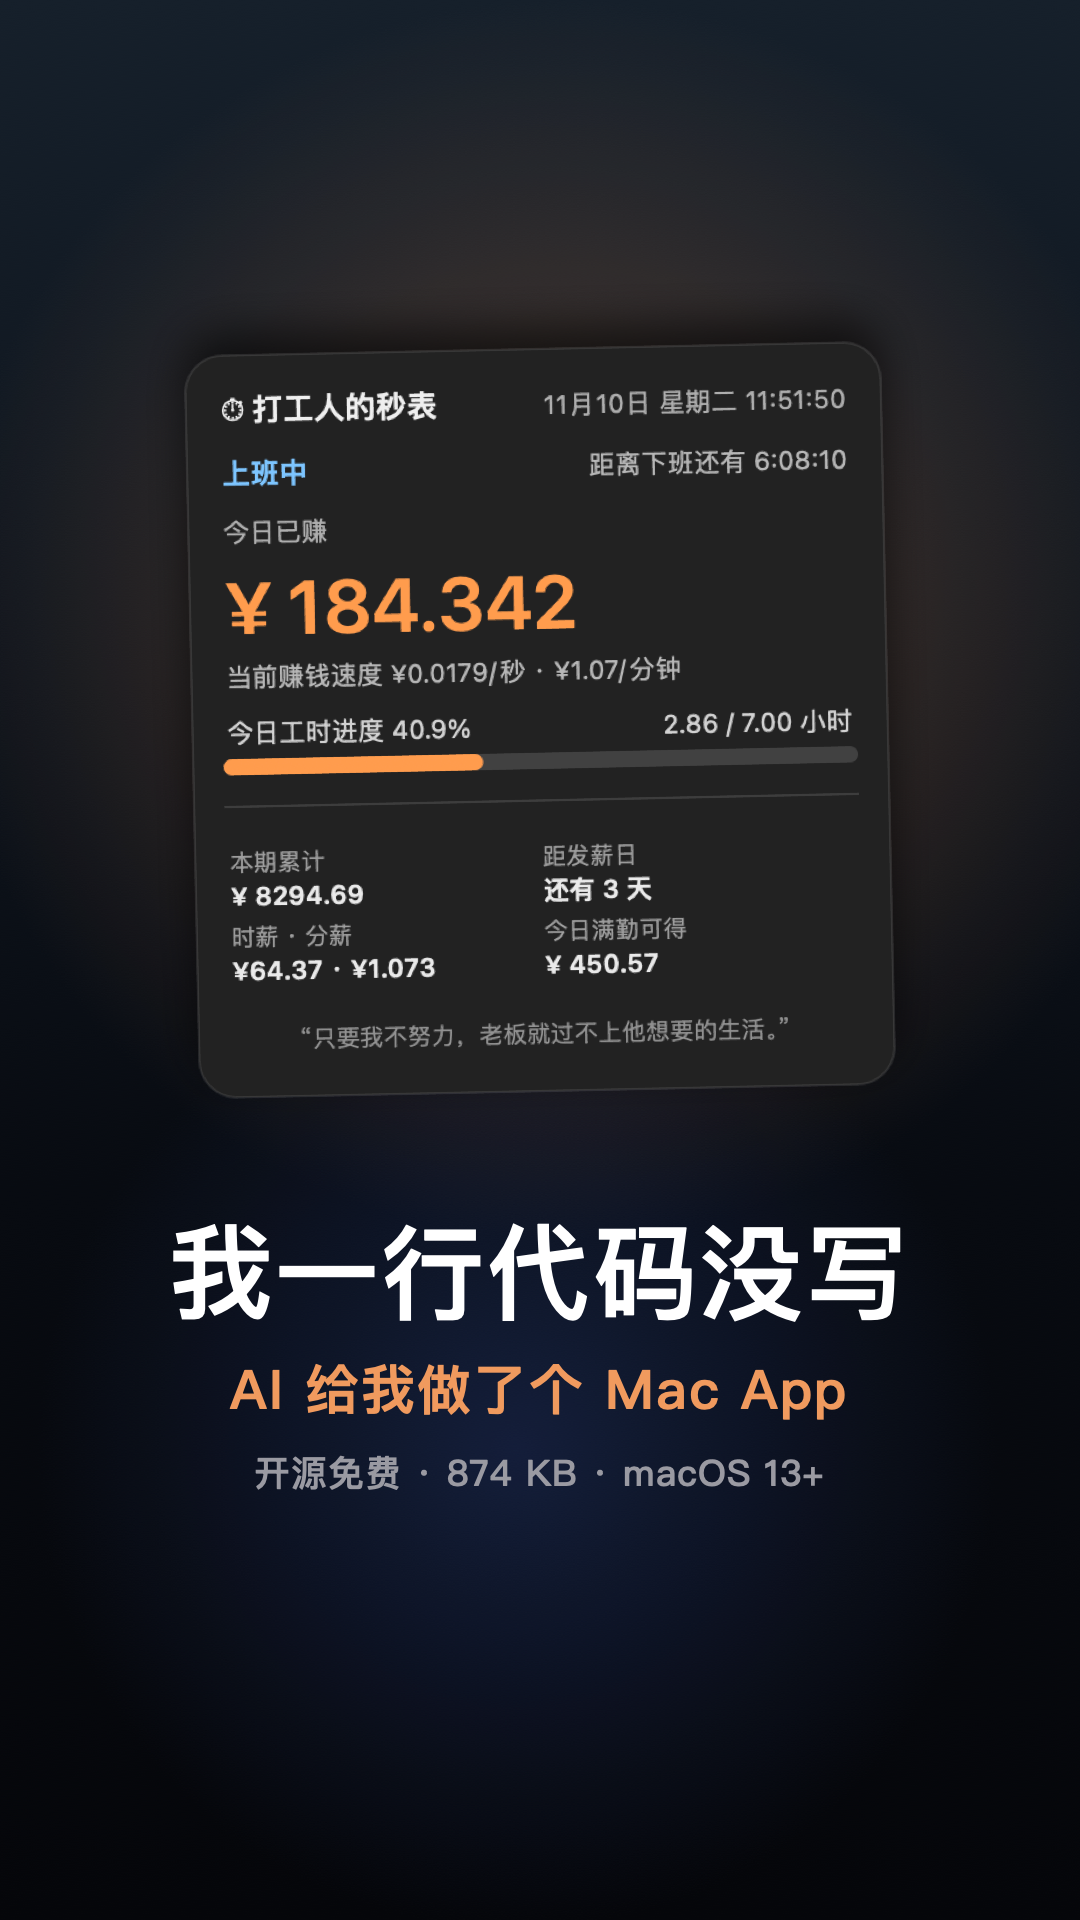
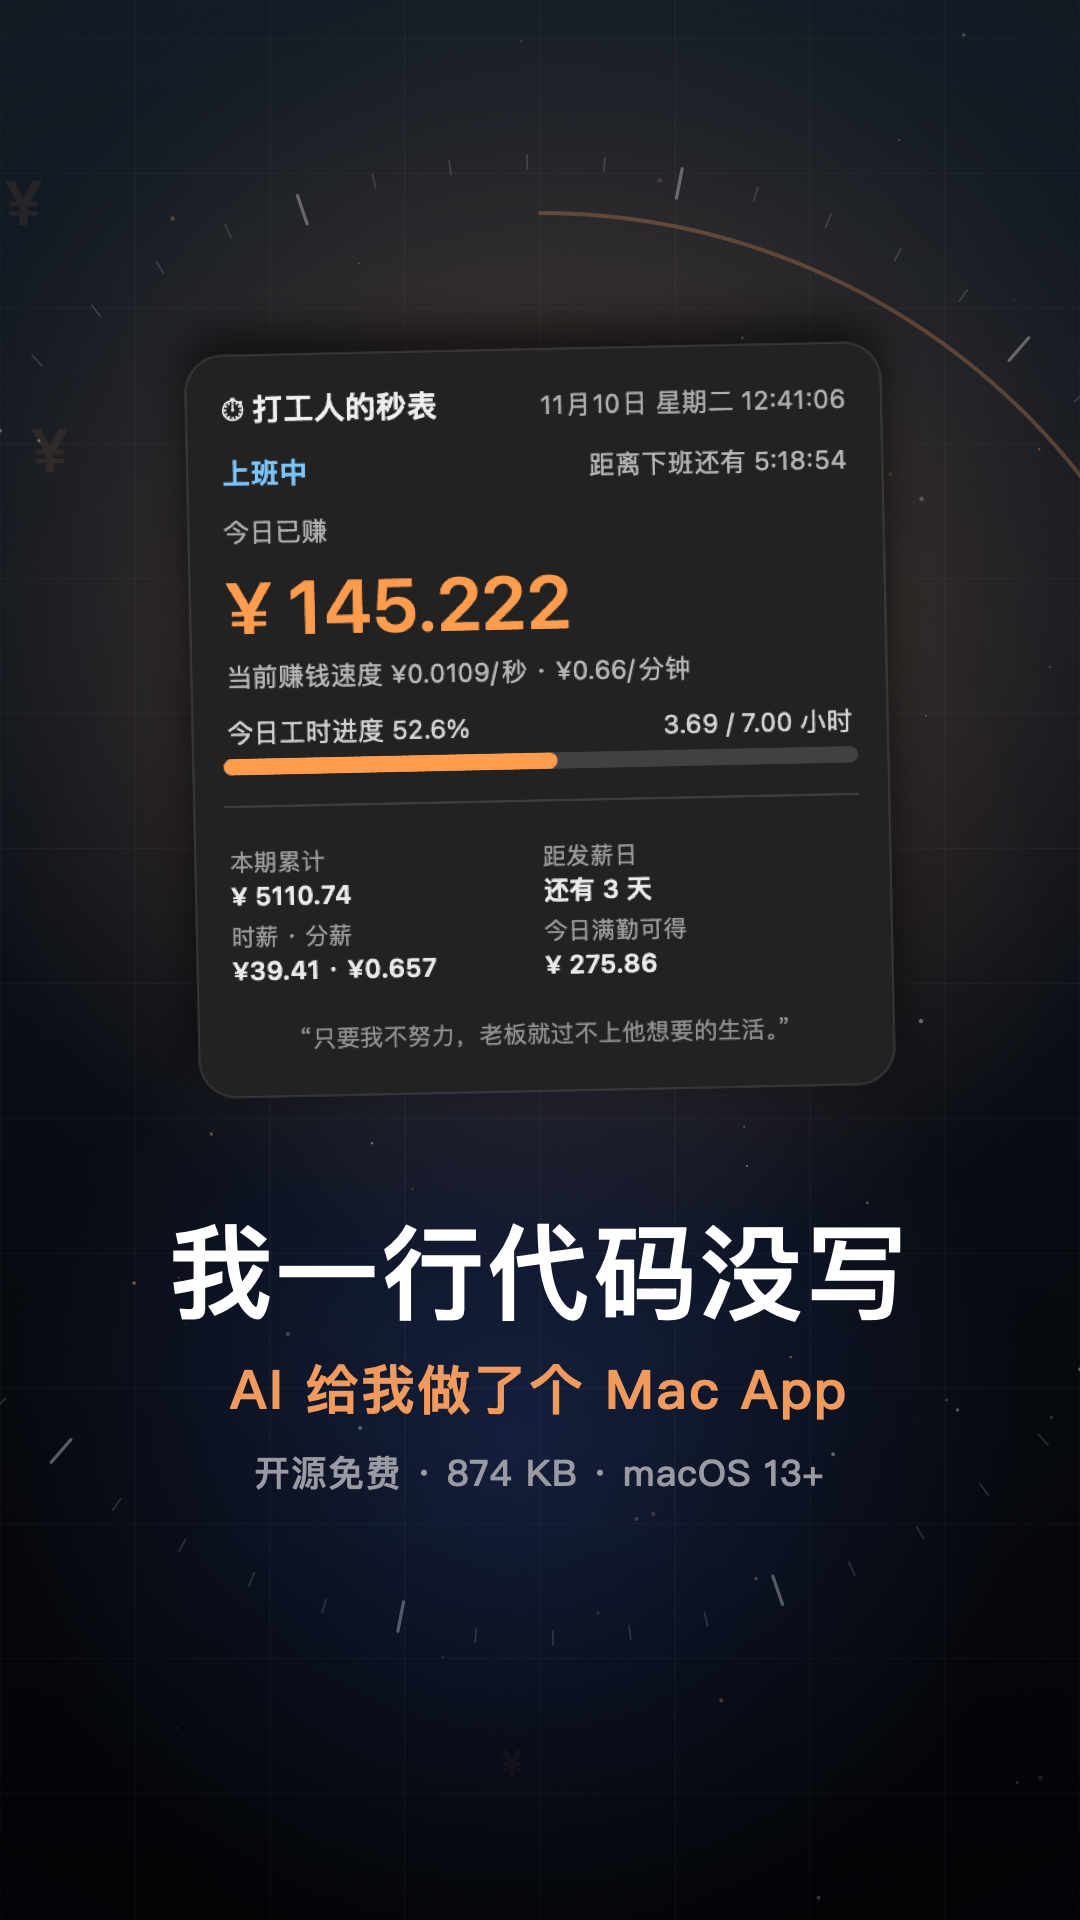
docs: 抖音视频背景重制，补秒表刻度环/网格/粒子，同步分镜说明

diff --git a/docs/promo.md b/docs/promo.md
@@ -207,7 +207,7 @@ github.com/wh930303/dagongren-miaobiao
 
 | 时间 | 画面 | 文案 |
 |---|---|---|
-| 0–3s | 纯黑底出字 | 这个 Mac App / 我一行代码没写 / 全程在对话框里完成 |
+| 0–3s | 暗色底出字（秒表刻度环 + 细网格 + 漂浮粒子） | 这个 Mac App / 我一行代码没写 / 全程在对话框里完成 |
 | 3–7s | 卡片弹入，数字开始跳 | 挂在屏幕角落，随便拖 |
 | 7–15s | 四个特写跟拍 | 工资按秒往上跳 → 离下班精确到秒 → 工时进度 → 这期攒了多少 |
 | 15–18s | 极简小条 | 双击，缩成一条小条 |
